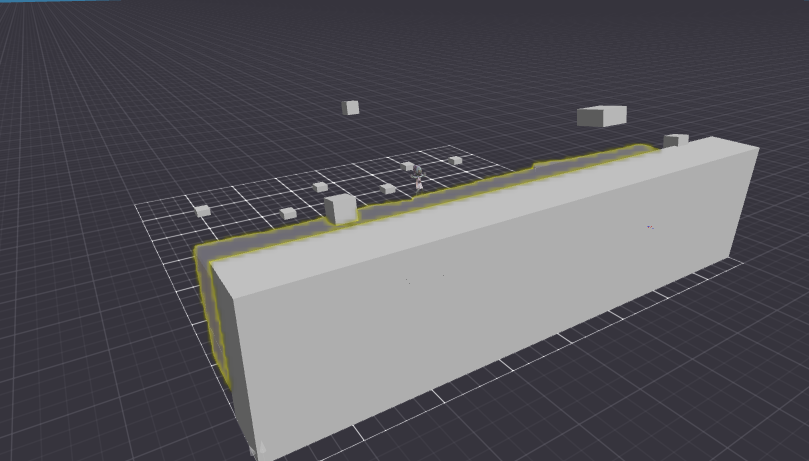
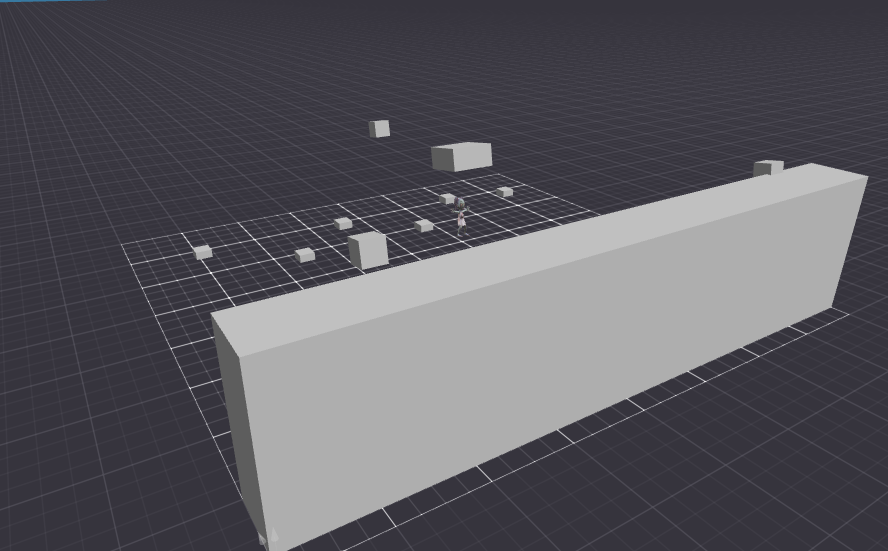
new update all zombies face foward no large wall

diff --git a/src/index.ts b/src/index.ts
@@ -1,4 +1,4 @@
-import { engine, Entity, Transform, LightSource, VisibilityComponent, Tags, GltfContainer } from '@dcl/sdk/ecs'
+import { engine, Entity, Transform, LightSource, VisibilityComponent, Tags, GltfContainer, PointerEvents, InputAction, PointerEventType, MeshCollider, Input } from '@dcl/sdk/ecs'
 import { Vector3, Quaternion, Color3 } from '@dcl/sdk/math'
 import { movePlayerTo } from '~system/RestrictedActions'
 import { ReactEcsRenderer } from '@dcl/sdk/react-ecs'
@@ -120,10 +120,30 @@ function spawnZombie() {
     src: 'assets/scene/Models/girlzombie/girlzombie.glb'
   })
   
-  // Make sure the zombie is visible
+  // Make zombies visible
   VisibilityComponent.create(zombie, {
     visible: true
   })
+  
+  // Add MeshCollider so the zombie can be clicked
+  MeshCollider.create(zombie, {
+    mesh: { $case: 'box', box: {} }
+  })
+  
+  // Add pointer events to make zombie shootable
+  // PointerEvents.create(zombie, {
+  //   pointerEvents: [
+  //     {
+  //       eventType: PointerEventType.PET_DOWN,
+  //       eventInfo: {
+  //         button: InputAction.IA_POINTER,
+  //         hoverText: "Shoot Zombie",
+  //         showFeedback: true,
+  //         maxDistance: 100
+  //       }
+  //     }
+  //   ]
+  // })
   
   zombiesSpawned++
   zombiesSpawnedThisWave++
@@ -141,6 +161,9 @@ function startZombieWave() {
   if (zombieSpawnPoints.length > 0) {
     spawnZombie()
   }
+  
+  // Reset timer after spawning first zombie so next zombie spawns after interval
+  zombieSpawnTimer = 0
 }
 
 function endZombieWave() {
@@ -211,6 +234,42 @@ function updateZombieMovement() {
     if (transform.position.z <= 8) { // Wall at z=8
       engine.removeEntity(zombie)
       score = Math.max(0, score - 20)
+    }
+  }
+}
+
+function handleZombieShooting() {
+  // Check for input actions (mouse clicks)
+  if (Input.getInputAction(InputAction.IA_PRIMARY)) {
+    // Get all zombies
+    const zombieEntities = engine.getEntitiesWith(GltfContainer, Transform)
+    
+    // Find the closest zombie to the player
+    let closestZombie: Entity | null = null
+    let closestDistance = Infinity
+    
+    for (const [zombie] of zombieEntities) {
+      const zombieTransform = Transform.get(zombie)
+      const zombiePosition = zombieTransform.position
+      
+      // Simple distance calculation (you could make this more sophisticated)
+      const distance = Math.sqrt(
+        Math.pow(zombiePosition.x - 24.25, 2) + // Player position approximation
+        Math.pow(zombiePosition.y - 8, 2) +
+        Math.pow(zombiePosition.z - 6.75, 2)
+      )
+      
+      if (distance < closestDistance && distance <= 100) { // Max shooting distance
+        closestDistance = distance
+        closestZombie = zombie
+      }
+    }
+    
+    // Shoot the closest zombie
+    if (closestZombie) {
+      engine.removeEntity(closestZombie)
+      score += 10 // Add 10 points for shooting a zombie
+      console.log(`Zombie shot! Score: ${score}`)
     }
   }
 }
@@ -341,6 +400,7 @@ function setupScene() {
 engine.addSystem(updateGameTimer)
 engine.addSystem(updateZombieSpawning)
 engine.addSystem(updateZombieMovement)
+engine.addSystem(handleZombieShooting)
 
 export function main() {
   console.log('Scene initialized with HUD')

diff --git a/assets/scene/entity-names.ts b/assets/scene/entity-names.ts
@@ -16,6 +16,5 @@ export enum EntityNames {
   Cube_7 = "Cube_7",
   Cube_8 = "Cube_8",
   Cube_9 = "Cube_9",
-  Large_Stone_Wall = "Large Stone Wall",
   girlzombie_glb = "girlzombie.glb",
 } 
